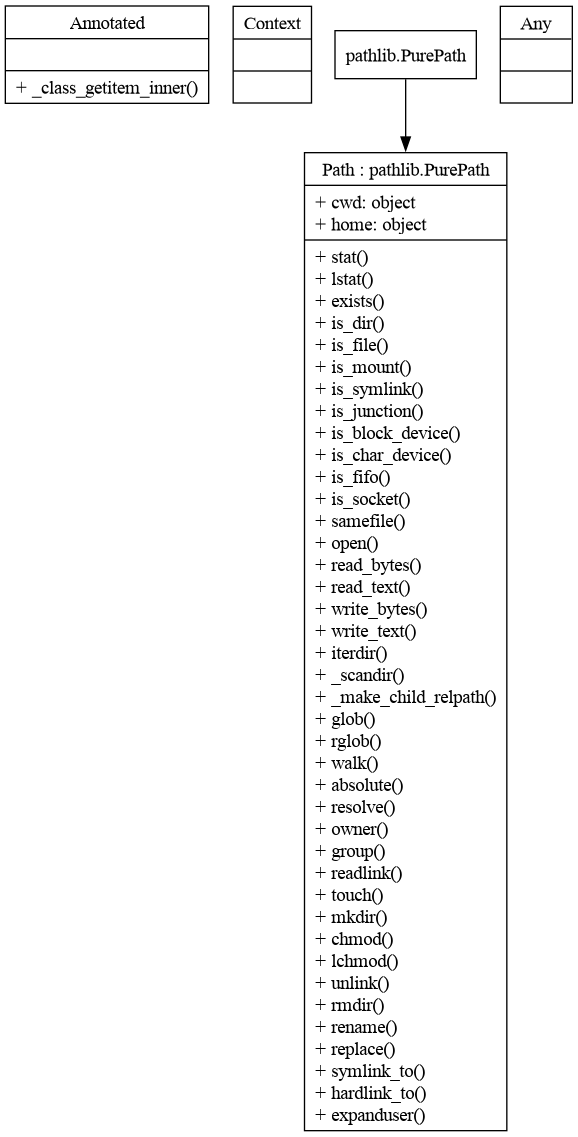
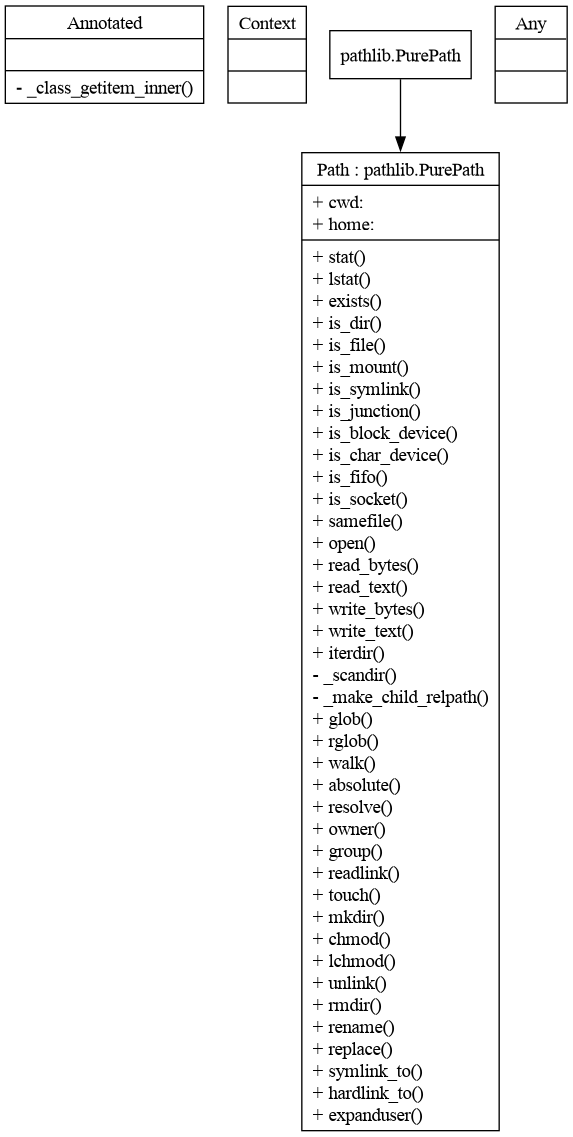
fix: Fix initial code (#8)

diff --git a/src/umlizer/class_graph.py b/src/umlizer/class_graph.py
@@ -87,13 +87,16 @@ def _get_classicclass_structure(
     klass: Type[Any],
 ) -> dict[str, Union[dict[str, str], list[str]]]:
     _methods = _get_methods(klass)
+    fields = {}
+
+    for k in list(klass.__dict__.keys()):
+        if k.startswith('__') or k in _methods:
+            continue
+        value = _get_annotations(klass).get(k, '')
+        fields[k] = getattr(value, '__value__', str(value))
 
     return {
-        'fields': {
-            k: _get_annotations(klass).get(k, object).__name__
-            for k in list(klass.__dict__.keys())
-            if not k.startswith('__') and k not in _methods
-        },
+        'fields': fields,
         'methods': _methods,
     }
 
@@ -131,15 +134,29 @@ def _get_entity_class_uml(entity: Type[Any]) -> str:
     class_name = f'{entity.__name__}'
 
     if base_classes:
-        class_name += f' : {base_classes}'
+        class_name += f' ({base_classes})'
 
     # Formatting fields and methods
     fields_struct = cast(dict[str, str], class_structure['fields'])
     fields = (
-        '\\l'.join([f'+ {k}: {v}' for k, v in fields_struct.items()]) + '\\l'
+        '\\l'.join(
+            [
+                f'{"-" if k.startswith("_") else "+"} {k}: {v}'
+                for k, v in fields_struct.items()
+            ]
+        )
+        + '\\l'
     )
     methods_struct = cast(list[str], class_structure['methods'])
-    methods = '\\l'.join([f'+ {m}()' for m in methods_struct]) + '\\l'
+    methods = (
+        '\\l'.join(
+            [
+                f'{"-" if m.startswith("_") else "+"} {m}()'
+                for m in methods_struct
+            ]
+        )
+        + '\\l'
+    )
 
     # Combine class name, fields, and methods into the UML node format
     uml_representation = '{' + f'{class_name}|{fields}|{methods}' + '}'

diff --git a/src/umlizer/cli.py b/src/umlizer/cli.py
@@ -1,6 +1,8 @@
 """Main module template with example functions."""
 from __future__ import annotations
 
+import os
+
 from pathlib import Path
 
 import typer
@@ -11,6 +13,31 @@ from typing_extensions import Annotated
 from umlizer import __version__, class_graph
 
 app = typer.Typer()
+
+
+def make_absolute(relative_path: Path) -> Path:
+    """
+    Convert a relative Path to absolute, relative to the current cwd.
+
+    Parameters
+    ----------
+    relative_path : Path
+        The path to be converted to absolute.
+
+    Returns
+    -------
+    Path
+        The absolute path.
+    """
+    # Get current working directory
+    current_directory = Path(os.getcwd())
+
+    # Return absolute path
+    return (
+        current_directory / relative_path
+        if not relative_path.is_absolute()
+        else relative_path
+    )
 
 
 @app.callback(invoke_without_command=True)
@@ -47,12 +74,15 @@ def class_(
         typer.Option(
             ..., help='Target path where the UML graph will be generated.'
         ),
-    ] = Path('/tmp'),
+    ] = Path('/tmp/'),
     verbose: Annotated[
         bool, typer.Option(help='Active the verbose mode.')
     ] = False,
 ) -> None:
     """Run the command for class graph."""
+    source = make_absolute(source)
+    target = make_absolute(target) / 'class_graph'
+
     g = class_graph.create_class_diagram_from_source(source, verbose=verbose)
     g.format = 'png'
     g.render(target)

diff --git a/docs/changelog.md b/docs/changelog.md
@@ -1,20 +1,3 @@
 # Release Notes
 
 ---
-
-# [0.3.0](https://github.com/osl-incubator/umlizer/compare/0.2.0...0.3.0) (2023-12-22)
-
-### Features
-
-- Separate data.lock per profile and fix small issues ([#8](https://github.com/osl-incubator/umlizer/issues/8)) ([91a8b3d](https://github.com/osl-incubator/umlizer/commit/91a8b3d8b0fa2900fc35e3149352a77d0fd40b2b))
-
-# [0.2.0](https://github.com/osl-incubator/umlizer/compare/0.1.0...0.2.0) (2023-12-15)
-
-### Bug Fixes
-
-- Fix release workflow ([#5](https://github.com/osl-incubator/umlizer/issues/5)) ([8ba1407](https://github.com/osl-incubator/umlizer/commit/8ba1407ea27fb6e1a8712608f7f8af4ee1850475))
-- Fix release workflow ([#6](https://github.com/osl-incubator/umlizer/issues/6)) ([38e9d7c](https://github.com/osl-incubator/umlizer/commit/38e9d7c5ce45a83f6d50bdc9e98fcb76b6a34caf))
-
-### Features
-
-- Implement option for passing password as a stdin ([#4](https://github.com/osl-incubator/umlizer/issues/4)) ([4ab5ba8](https://github.com/osl-incubator/umlizer/commit/4ab5ba8ee54e98b6f580dbd3f7659af77e9a72c3))

diff --git a/README.md b/README.md
@@ -12,5 +12,5 @@ TBD
 ## Class Diagram
 
 ```bash
-$ umlizer class --source ./src/umlizer --target ./docs/uml/class_graph --verbose
+$ umlizer class --source ./src/umlizer --target ./docs/uml/ --verbose
 ```
